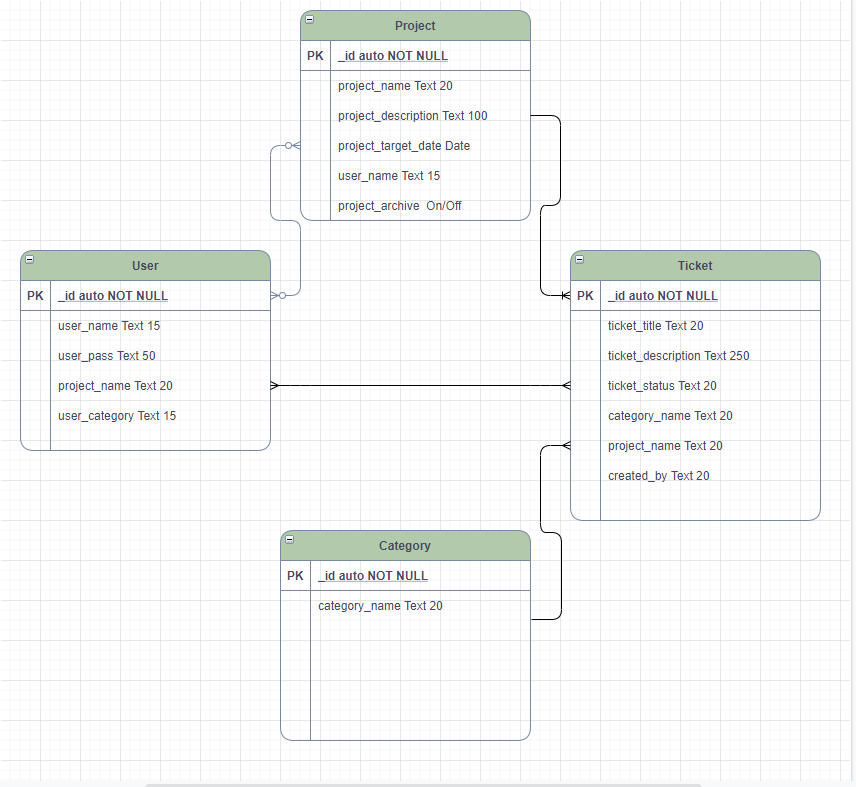
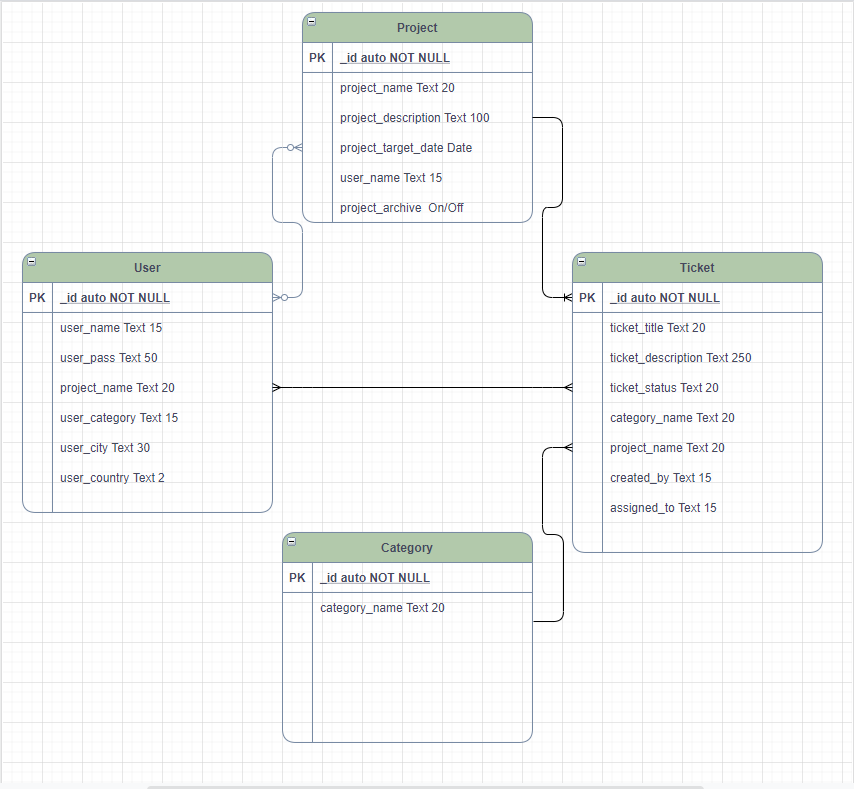
updated DB user table to include city and country so a personalized weather information will be shown on the Dashboard

diff --git a/templates/dashboard.html b/templates/dashboard.html
@@ -11,6 +11,7 @@
 {% block content %}
     <h3 class="center-align">Dashboard</h3>
 
+    <!-- Projects assigned to the user -->
     <div class="row top-spacing">
         <div class="col s12">
             <div class="card-panel">
@@ -81,7 +82,7 @@
     <div class="row top-spacing">
         <div class="col s12">
             <div class="card-panel">
-                <!-- Projects assigned to the user -->
+                <!-- Tickets related to the Projects -->
                 <div class="row">
                     <div class="col s12 center-align">
                         <h4><strong>Tickets</strong></h4>

diff --git a/README.md b/README.md
@@ -69,7 +69,7 @@ This is a webapp aimed to work as a tool to help to manage Projects and Tickets 
         <p align="center"><img src="https://sbug-tracker.herokuapp.com/static/img/DBdiagram.PNG"></p><br>
         <h8>DB diagram created with <a href="https://app.diagrams.net/" target="_blank">app.diagrams.net</a></h8>
 
-    -   DB Diagram Schema - [Download](https://drive.google.com/file/d/1Pafmj-4oVsDjhE6eaEez1Rj5giXy_S-Q/view?usp=sharing)
+    -   DB Diagram Schema - [Download](https://drive.google.com/file/d/1D_Tf52xDYcXgjyKV3o4u3YeFmbN2rxjY/view?usp=sharing)
 
 
 ## Technologies Used
